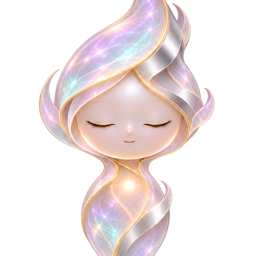
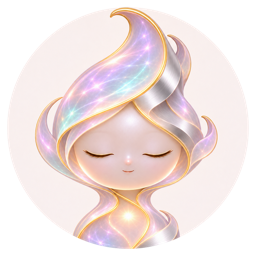
Кружки спутника из аватарок дизайнера.

diff --git a/docs/plan.md b/docs/plan.md
@@ -14,7 +14,7 @@
 | 6 | Онбординг | Экраны знакомства с приложением: первый экран «Дорогой Матэтис!» (`02_0_matetis`), затем `02_1`–`02_4`. Тексты уточняются под обновлённую программу | Готов |
 | 7 | Программа и отметки | Админ наполняет программу «тип + стихия», человек видит её и отмечает выполнение. Сначала предварительная версия по текущим материалам, уточняется после звонка с Жанной | Ждёт итогов звонка с Жанной и макетов |
 | 8 | Доступ и подписка | Платный доступ: что открыто без оплаты, что закрыто. Оплата вне приложения, админ вручную открывает доступ человеку по почте или нику в Telegram. Упрощение регистрации: вход по коду из письма или через бота МАТЭТИС в Telegram, на выбор человека | Готов. На телефоне проверяем на этапе 13 |
-| 9 | Статистика профиля и персонаж | Личный прогресс. Персонаж-спутник вместо аватарки: растёт по мере выполнения практик в течение стихии. Бейджей стихий нет – вместо них развивается персонаж (решение от 11 ноября 2026) | Сделан, ждёт проверки. Кружки для аватарок пока вырезаны из картинок персонажа: когда дизайнер пришлёт `avatar 1–6.PNG` в `design/character`, запустить `bash scripts/build-character.sh`. ТЗ дизайнеру: [`tasks/09-character/designer-brief.md`](tasks/09-character/designer-brief.md) |
+| 9 | Статистика профиля и персонаж | Личный прогресс. Персонаж-спутник вместо аватарки: растёт по мере выполнения практик в течение стихии. Бейджей стихий нет – вместо них развивается персонаж (решение от 11 ноября 2026) | Сделан, ждёт проверки. Кружки аватарок – из `design/character/ava 1–6.PNG`. ТЗ дизайнеру: [`tasks/09-character/designer-brief.md`](tasks/09-character/designer-brief.md) |
 | 10 | Совместные практики и лента | Приглашения, совместная практика, лента событий, реакции, автоподбор раз в месяц | |
 | 11 | Библиотека | Каталог практик, загрузка книг и сканов, видео | |
 | 12 | Админка целиком | Статистика, редактирование теста и 12 типов | |
